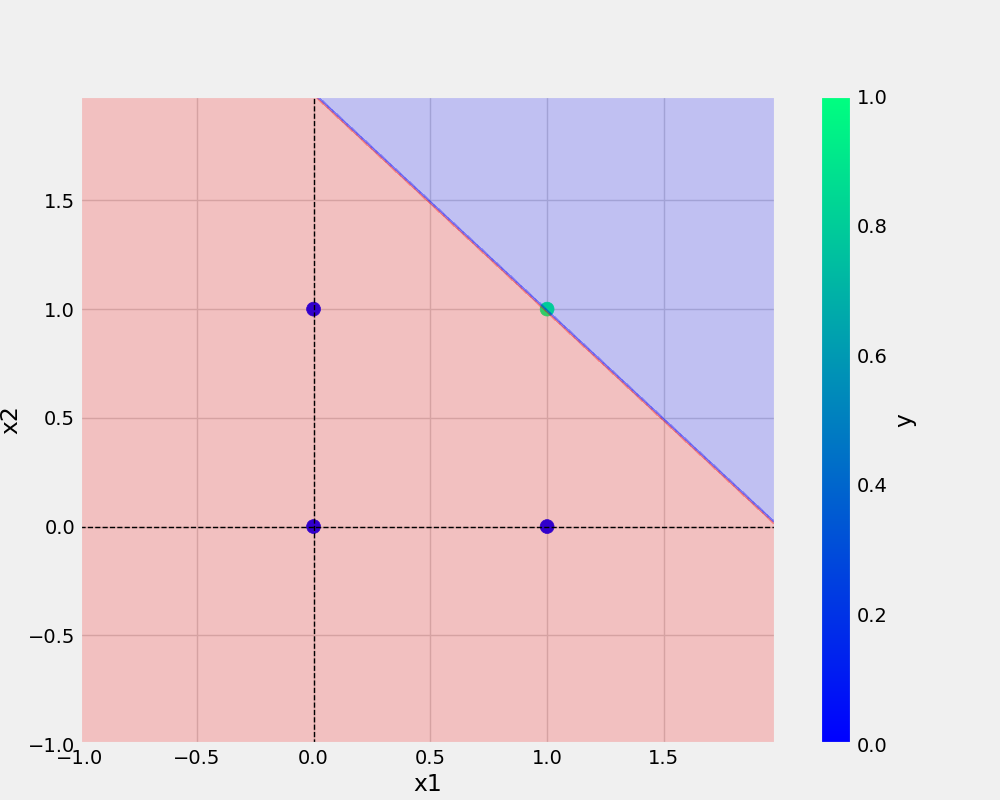
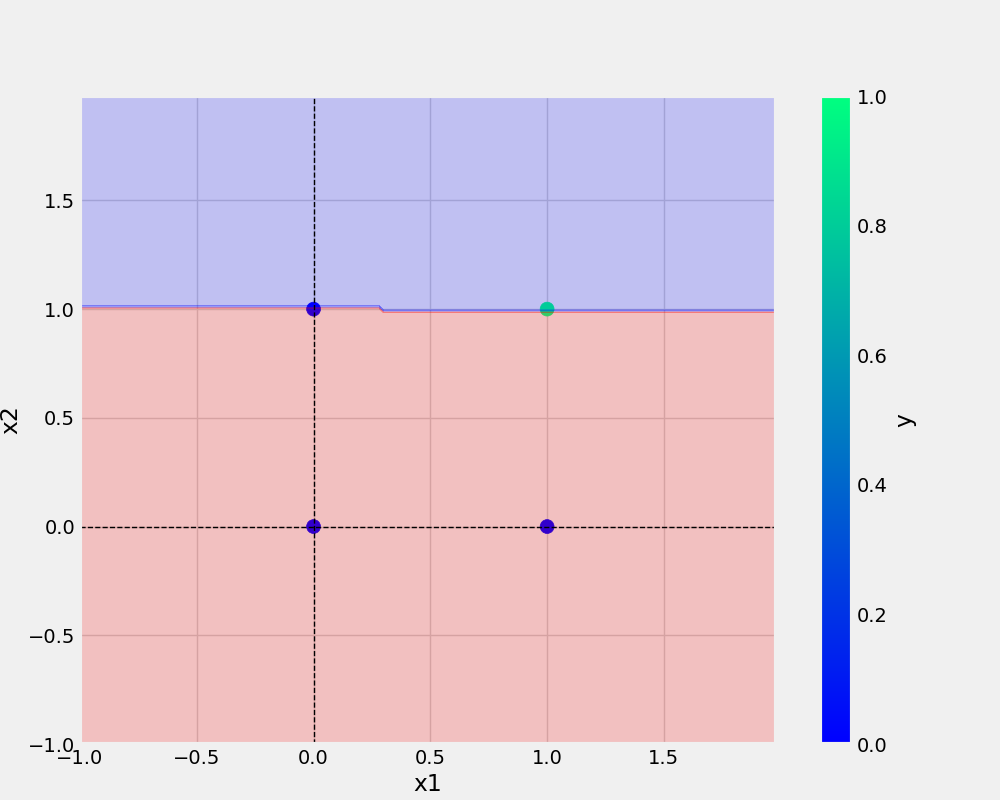
code organised

Changed region(s): [[0.062, 0.125, 0.775, 0.6562]]

diff --git a/and.py b/and.py
@@ -5,27 +5,30 @@ from utils.all_utils import prepare_data, save_model, save_plot
 import pandas as pd
 import numpy as np
 
+def main(data, eta, epochs, filename, plotFileName):
 
-AND = {
+    df = pd.DataFrame(data)
+    print(df)
+    X,y = prepare_data(df)
+
+    model = Perceptron(eta=eta, epochs=epochs)
+    model.fit(X, y)
+
+    _=model.total_loss()  # dummy variable
+
+    save_model(model, filename=filename)
+    save_plot(df, plotFileName, model)
+
+if __name__ == '__main__':      # << Entry point
+
+    AND = {
     "x1":[0,0,1,1],
     "x2":[0,1,0,1],
     "y":[0,0,0,1],
-}
+    }
 
-df = pd.DataFrame(AND)
+    ETA= 0.3 #0 and 1
+    EPOCHS =10
 
-print(df)
-
-X,y = prepare_data(df)
-
-ETA= 0.3 #0 and 1
-EPOCHS =10
-
-model = Perceptron(eta=ETA, epochs=EPOCHS)
-model.fit(X, y)
-
-_=model.total_loss()
-
-save_model(model, filename="and.model")
-save_plot(df, "and.png", model)
+    main(data=AND, eta=ETA, epochs=EPOCHS, filename="and.model", plotFileName="and.png")
 

diff --git a/or.py b/or.py
@@ -1,0 +1,34 @@
+
+from fileinput import filename
+from utils.model import Perceptron
+from utils.all_utils import prepare_data, save_model, save_plot
+import pandas as pd
+import numpy as np
+
+def main(data, eta, epochs, filename, plotFileName):
+
+    df = pd.DataFrame(data)
+    print(df)
+    X,y = prepare_data(df)
+
+    model = Perceptron(eta=eta, epochs=epochs)
+    model.fit(X, y)
+
+    _=model.total_loss()  # dummy variable
+
+    save_model(model, filename=filename)
+    save_plot(df, plotFileName, model)
+
+if __name__ == '__main__':      # << Entry point
+
+    OR = {
+    "x1":[0,0,1,1],
+    "x2":[0,1,0,1],
+    "y":[0,1,1,1],
+    }
+
+    ETA= 0.3 #0 and 1
+    EPOCHS =10
+
+    main(data=OR, eta=ETA, epochs=EPOCHS, filename="or.model", plotFileName="or.png")
+
